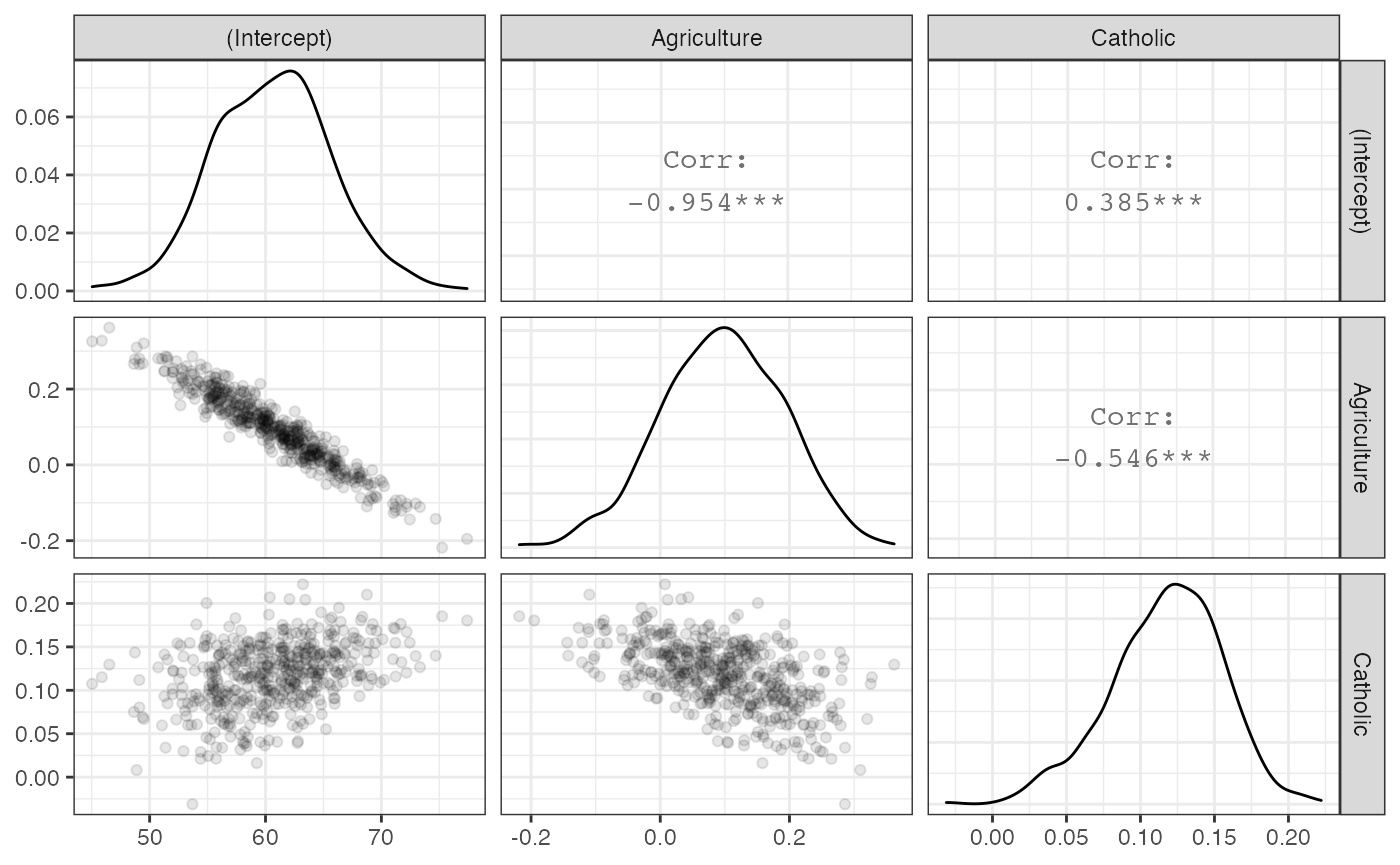
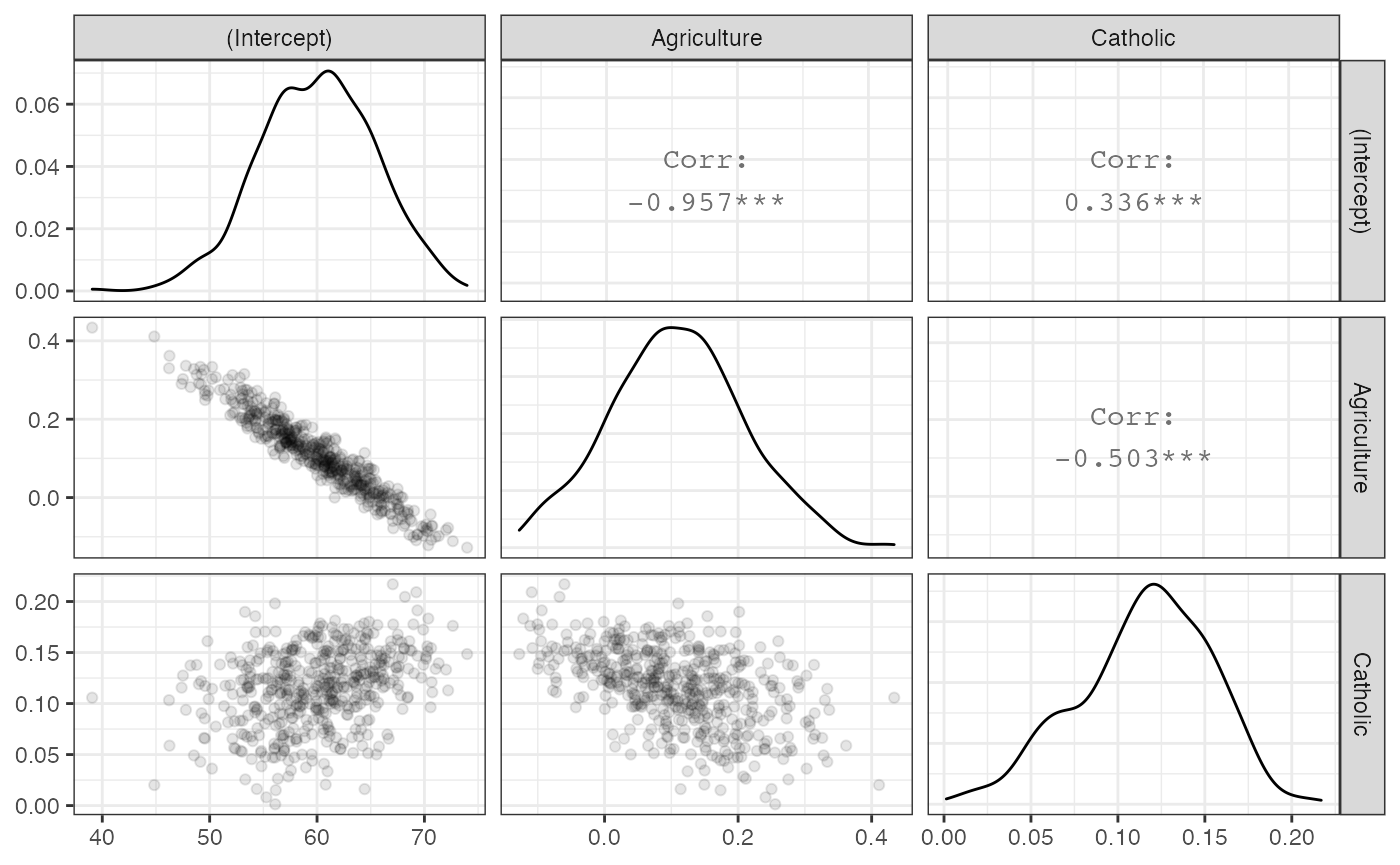
Deploying to gh-pages from  @ 5f8735e298962d34634c9876378ea99cee0b9883 🚀

diff --git a/r/estimatr/articles/estimatr-in-the-tidyverse.html b/r/estimatr/articles/estimatr-in-the-tidyverse.html
@@ -271,72 +271,72 @@
 <tr class="odd">
 <td align="left">1</td>
 <td align="left">(Intercept)</td>
-<td align="right">56.7870554</td>
-<td align="right">4.7553173</td>
-<td align="right">11.941802</td>
+<td align="right">56.0160135</td>
+<td align="right">6.4841201</td>
+<td align="right">8.6389538</td>
 <td align="right">0.0000000</td>
-<td align="right">47.2033431</td>
-<td align="right">66.3707677</td>
+<td align="right">42.9481282</td>
+<td align="right">69.0838988</td>
 <td align="right">44</td>
 <td align="left">Fertility</td>
 </tr>
 <tr class="even">
 <td align="left">1</td>
 <td align="left">Catholic</td>
-<td align="right">0.0963459</td>
-<td align="right">0.0410639</td>
-<td align="right">2.346242</td>
-<td align="right">0.0235328</td>
-<td align="right">0.0135870</td>
-<td align="right">0.1791048</td>
+<td align="right">0.0552671</td>
+<td align="right">0.0520956</td>
+<td align="right">1.0608791</td>
+<td align="right">0.2945336</td>
+<td align="right">-0.0497246</td>
+<td align="right">0.1602589</td>
 <td align="right">44</td>
 <td align="left">Fertility</td>
 </tr>
 <tr class="odd">
 <td align="left">1</td>
 <td align="left">Agriculture</td>
-<td align="right">0.1593106</td>
-<td align="right">0.0882551</td>
-<td align="right">1.805116</td>
-<td align="right">0.0779023</td>
-<td align="right">-0.0185558</td>
-<td align="right">0.3371770</td>
+<td align="right">0.2394618</td>
+<td align="right">0.1294597</td>
+<td align="right">1.8497014</td>
+<td align="right">0.0710802</td>
+<td align="right">-0.0214471</td>
+<td align="right">0.5003707</td>
 <td align="right">44</td>
 <td align="left">Fertility</td>
 </tr>
 <tr class="even">
 <td align="left">2</td>
 <td align="left">(Intercept)</td>
-<td align="right">59.3397576</td>
-<td align="right">6.7134029</td>
-<td align="right">8.838998</td>
+<td align="right">49.1370288</td>
+<td align="right">5.5037091</td>
+<td align="right">8.9279844</td>
 <td align="right">0.0000000</td>
-<td align="right">45.8097831</td>
-<td align="right">72.8697321</td>
+<td align="right">38.0450320</td>
+<td align="right">60.2290255</td>
 <td align="right">44</td>
 <td align="left">Fertility</td>
 </tr>
 <tr class="odd">
 <td align="left">2</td>
 <td align="left">Catholic</td>
-<td align="right">0.1512389</td>
-<td align="right">0.0377903</td>
-<td align="right">4.002052</td>
-<td align="right">0.0002375</td>
-<td align="right">0.0750775</td>
-<td align="right">0.2274003</td>
+<td align="right">0.0429502</td>
+<td align="right">0.0434754</td>
+<td align="right">0.9879206</td>
+<td align="right">0.3285933</td>
+<td align="right">-0.0446686</td>
+<td align="right">0.1305690</td>
 <td align="right">44</td>
 <td align="left">Fertility</td>
 </tr>
 <tr class="even">
 <td align="left">2</td>
 <td align="left">Agriculture</td>
-<td align="right">0.1336282</td>
-<td align="right">0.1219159</td>
-<td align="right">1.096068</td>
-<td align="right">0.2790119</td>
-<td align="right">-0.1120772</td>
-<td align="right">0.3793336</td>
+<td align="right">0.3335697</td>
+<td align="right">0.0906907</td>
+<td align="right">3.6781014</td>
+<td align="right">0.0006366</td>
+<td align="right">0.1507945</td>
+<td align="right">0.5163449</td>
 <td align="right">44</td>
 <td align="left">Fertility</td>
 </tr>
@@ -350,9 +350,9 @@
 <pre><code>## # A tibble: 3 x 2
 ##   term        boot_se
 ## * &lt;chr&gt;         &lt;dbl&gt;
-## 1 (Intercept)  5.07  
-## 2 Agriculture  0.0947
-## 3 Catholic     0.0374</code></pre>
+## 1 (Intercept)  5.34  
+## 2 Agriculture  0.100 
+## 3 Catholic     0.0380</code></pre>
 <div class="sourceCode" id="cb15"><pre class="downlit sourceCode r">
 <code class="sourceCode R"><span class="co"># To visualize the sampling distribution</span>
 

diff --git a/r/estimatr/articles/absorbing-fixed-effects.html b/r/estimatr/articles/absorbing-fixed-effects.html
@@ -190,10 +190,10 @@
   times <span class="op">=</span> <span class="fl">50</span>
 <span class="op">)</span></code></pre></div>
 <pre><code>## Unit: milliseconds
-##             expr       min        lq      mean    median        uq      max
-##  base + sandwich 170.27181 177.14160 191.66666 181.25666 186.61484 309.9995
-##        lm_robust  77.35615  80.64125  89.74150  82.81253  86.56242 206.7060
-##  lm_robust + fes  48.19667  50.00250  55.93755  52.10037  55.69123 190.0071
+##             expr       min       lq      mean    median        uq      max
+##  base + sandwich 169.48114 175.0727 191.27522 179.24714 189.22553 316.2191
+##        lm_robust  76.30607  80.7133  87.02253  82.81842  84.25935 260.7148
+##  lm_robust + fes  47.98307  49.4351  54.65534  50.33472  52.50882 185.4188
 ##  neval cld
 ##     50   c
 ##     50  b 
@@ -220,14 +220,14 @@
   times <span class="op">=</span> <span class="fl">50</span>
 <span class="op">)</span></code></pre></div>
 <pre><code>## Unit: milliseconds
-##             expr        min        lq       mean     median         uq
-##  base + sandwich 173.819602 178.12069 194.780135 183.058808 200.986703
-##        lm_robust  61.453956  64.79355  71.062007  67.112257  71.015715
-##  lm_robust + fes   7.809914   8.29319   9.897938   8.782009   9.801609
+##             expr        min         lq       mean     median         uq
+##  base + sandwich 172.724967 176.068130 192.382183 182.544127 188.087420
+##        lm_robust  60.585607  63.642858  70.989251  66.741339  70.139070
+##  lm_robust + fes   7.681032   8.235763   9.249549   8.602307   9.374868
 ##        max neval cld
-##  322.58075    50   c
-##  215.15920    50  b 
-##   36.09687    50 a</code></pre>
+##  353.69377    50   c
+##  194.60143    50  b 
+##   15.15818    50 a</code></pre>
 </div>
   </div>
 

diff --git a/r/estimatr/reference/starprep.html b/r/estimatr/reference/starprep.html
@@ -239,7 +239,7 @@ the preferred, robust statistics.</p>
           omit.stat <span class='op'>=</span> <span class='st'>"f"</span><span class='op'>)</span>
 </div><div class='output co'>#&gt; 
 #&gt; % Table created by stargazer v.5.2.2 by Marek Hlavac, Harvard University. E-mail: hlavac at fas.harvard.edu
-#&gt; % Date and time: Sun, Jan 24, 2021 - 23:49:52
+#&gt; % Date and time: Mon, Jan 25, 2021 - 23:28:25
 #&gt; \begin{table}[!htbp] \centering 
 #&gt;   \caption{} 
 #&gt;   \label{} 
@@ -279,7 +279,7 @@ the preferred, robust statistics.</p>
           omit.stat <span class='op'>=</span> <span class='st'>"f"</span><span class='op'>)</span>
 </div><div class='output co'>#&gt; 
 #&gt; % Table created by stargazer v.5.2.2 by Marek Hlavac, Harvard University. E-mail: hlavac at fas.harvard.edu
-#&gt; % Date and time: Sun, Jan 24, 2021 - 23:49:52
+#&gt; % Date and time: Mon, Jan 25, 2021 - 23:28:25
 #&gt; \begin{table}[!htbp] \centering 
 #&gt;   \caption{} 
 #&gt;   \label{} 
@@ -316,7 +316,7 @@ the preferred, robust statistics.</p>
           omit.stat <span class='op'>=</span> <span class='st'>"f"</span><span class='op'>)</span>
 </div><div class='output co'>#&gt; 
 #&gt; % Table created by stargazer v.5.2.2 by Marek Hlavac, Harvard University. E-mail: hlavac at fas.harvard.edu
-#&gt; % Date and time: Sun, Jan 24, 2021 - 23:49:52
+#&gt; % Date and time: Mon, Jan 25, 2021 - 23:28:25
 #&gt; \begin{table}[!htbp] \centering 
 #&gt;   \caption{} 
 #&gt;   \label{} 

diff --git a/r/estimatr/articles/regression-tables.html b/r/estimatr/articles/regression-tables.html
@@ -258,7 +258,7 @@
 <span class="va">fit</span> <span class="op">&lt;-</span> <span class="fu"><a href="../reference/lm_robust.html">lm_robust</a></span><span class="op">(</span><span class="va">mpg</span> <span class="op">~</span> <span class="va">disp</span>, data <span class="op">=</span> <span class="va">mtcars</span><span class="op">)</span>
 <span class="va">fit</span> <span class="op">%&gt;%</span> <span class="va">tidy</span> <span class="op">%&gt;%</span> <span class="fu"><a href="https://rdrr.io/pkg/xtable/man/xtable.html">xtable</a></span><span class="op">(</span><span class="op">)</span></code></pre></div>
 <pre><code>## % latex table generated in R 4.0.3 by xtable 1.8-4 package
-## % Sun Jan 24 23:51:01 2021
+## % Mon Jan 25 23:29:31 2021
 ## \begin{table}[ht]
 ## \centering
 ## \begin{tabular}{rlrrrrrrrl}
